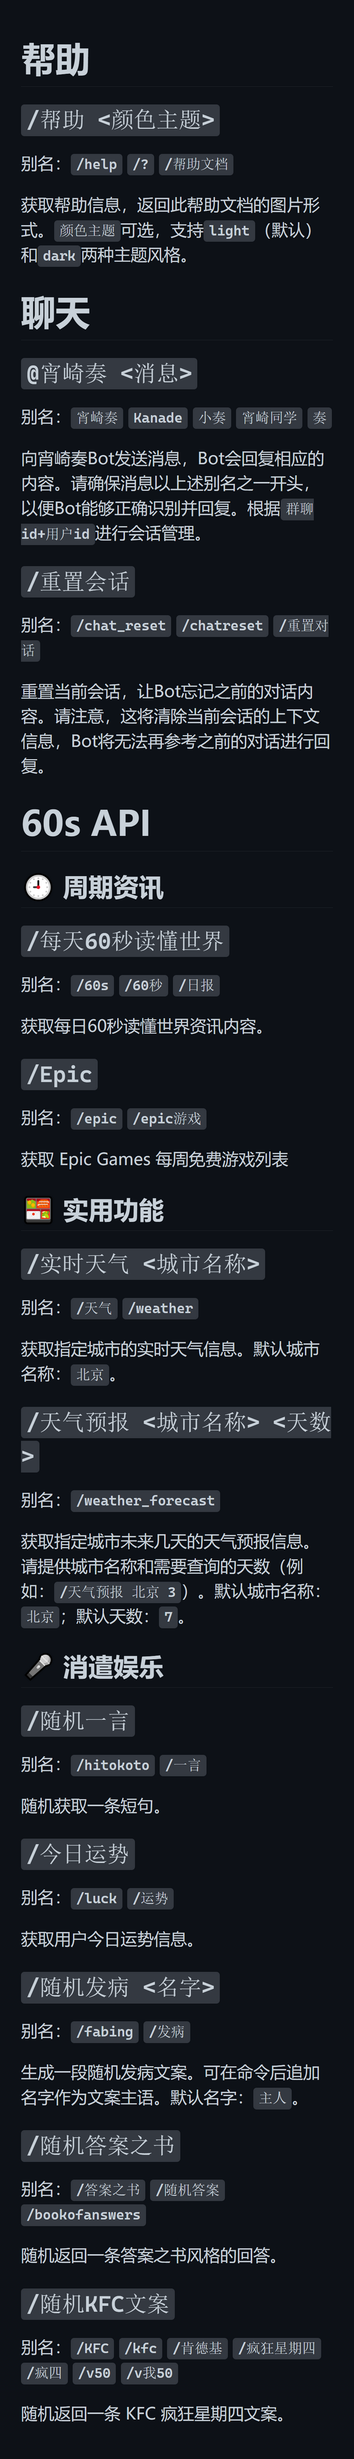
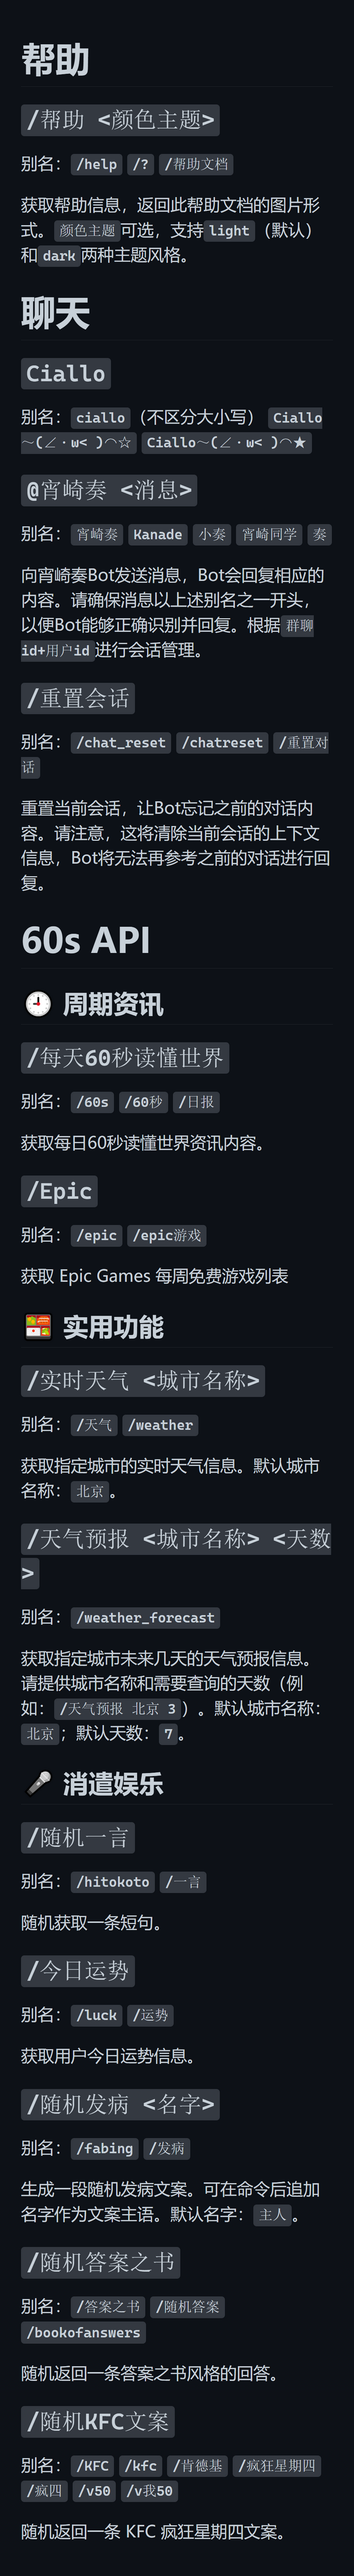
更改帮助文档

diff --git a/copilot_bot/plugins/chat/copilot.py b/copilot_bot/plugins/chat/copilot.py
@@ -17,7 +17,7 @@ from .config import Config
 cfg = get_plugin_config(Config)
 
 
-@define_tool(description="获取现在的本地日期时间，格式为yyyy-MM-dd HH:mm:ss")
+@define_tool(description="获取现在的日期时间，格式为yyyy-MM-dd HH:mm:ss，时区为本地时区")
 def get_datetime_now():
     return datetime.now().strftime("%Y-%m-%d %H:%M:%S")
 

diff --git a/copilot_bot/plugins/chat/__init__.py b/copilot_bot/plugins/chat/__init__.py
@@ -45,11 +45,10 @@ async def handle_ciallo_onebot(bot: OneBot):
         "image",
         {
             "file": "2BD9A9D9F906F1B83A5886FA6660C8C0.jpg",
-            "summary": "&#91;动画表情&#93;",
+            "summary": "[动画表情]",
             "sub_type": 1,
         },
     )
-
     await ciallo.finish(message)
 
 

diff --git a/help.md b/help.md
@@ -8,6 +8,10 @@
 
 # 聊天
 
+### `Ciallo`
+
+别名：`ciallo`（不区分大小写） `Ciallo～(∠・ω< )⌒☆` `Ciallo～(∠・ω< )⌒★`
+
 ### `@宵崎奏 <消息>`
 
 别名：`宵崎奏` `Kanade` `小奏` `宵崎同学` `奏`
